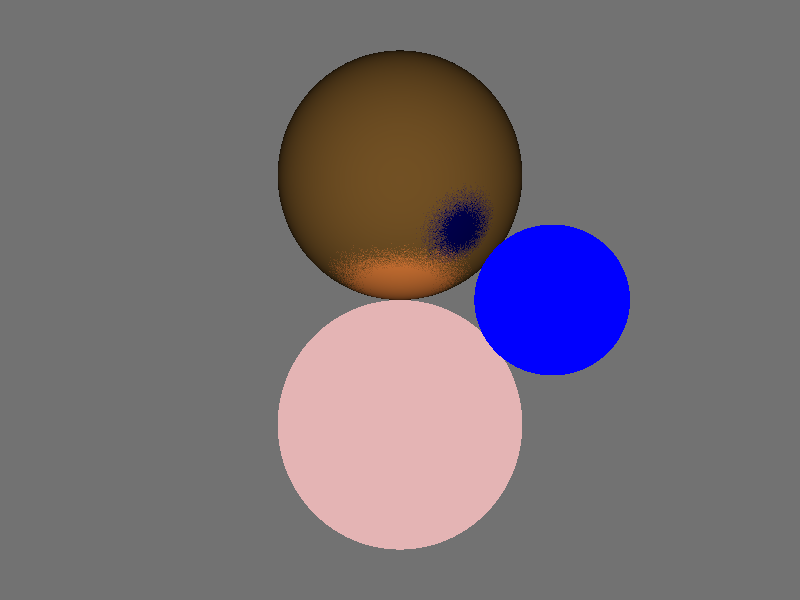
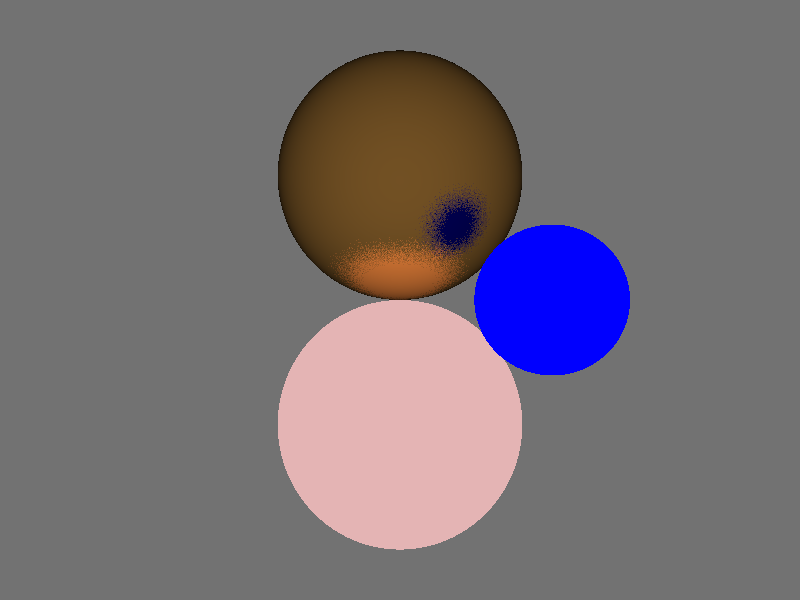
changed randomised reflection to be along a pure reflect direction, not normal

Changed region(s): [[0.4062, 0.33, 0.625, 0.48]]

diff --git a/src/raytracer/mod.rs b/src/raytracer/mod.rs
@@ -231,7 +231,7 @@ impl Stray
 
                 let new_dir = lerp::<Vec3>(
                     (random_in_unit_sphere() + 
-                     normal_to_sphere_surface).normalize(), prefect_reflection,
+                     prefect_reflection.normalize()).normalize(), prefect_reflection,
                     material_hit.shininess);
 
                 let new_ray = Ray::new(hit_sphere_point, new_dir);
